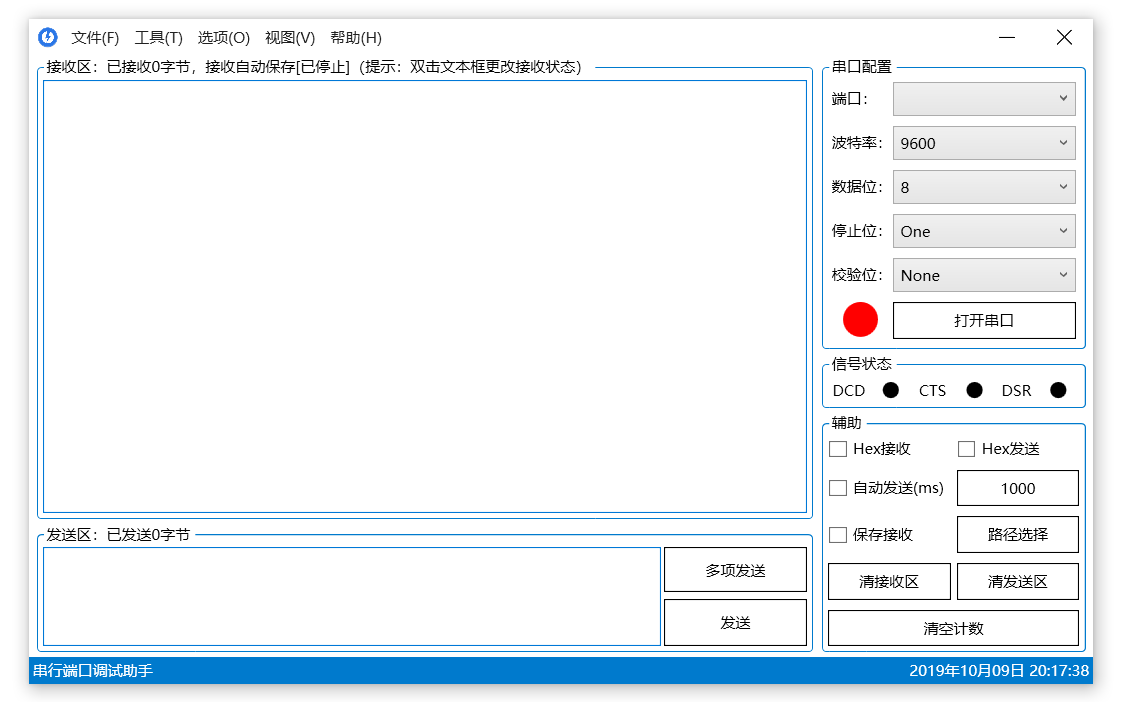
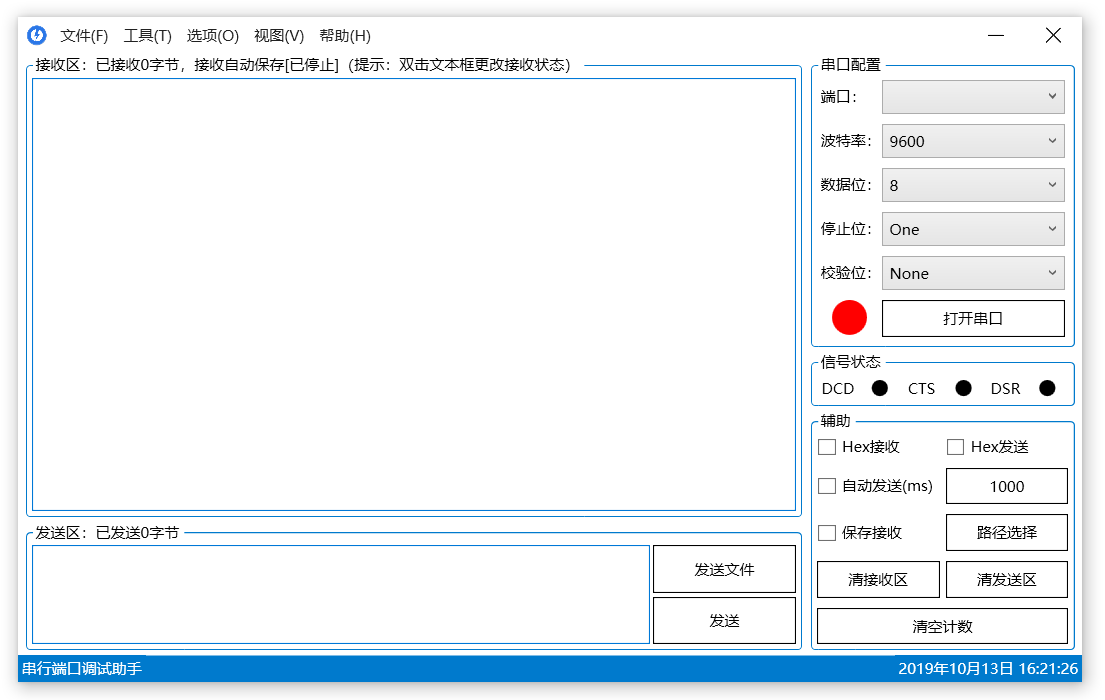
Updated OSDA to v3.4.0

Changed region(s): [[0.0, 0.03, 0.9846, 0.99]]

diff --git a/Properties/AssemblyInfo.cs b/Properties/AssemblyInfo.cs
@@ -45,6 +45,6 @@ using System.Windows;
 //  修订号
 // 可以指定所有值，也可以使用以下所示的 "*" 预置版本号和修订号方法是按如下所示使用“*”: :
 // [assembly: AssemblyVersion("1.0.*")]
-[assembly: AssemblyVersion("3.3.0.23")]
-[assembly: AssemblyFileVersion("3.3.0.23")]
+[assembly: AssemblyVersion("3.4.0.5")]
+[assembly: AssemblyFileVersion("3.4.0.5")]
 [assembly: NeutralResourcesLanguage("zh-Hans")]

diff --git a/Docs/source/conf.py b/Docs/source/conf.py
@@ -19,9 +19,9 @@ copyright = u'2019, OSDA Project members and individual contributors'
 author = u'The OSDA Project'
 
 # The short X.Y version
-version = '3.3.0'
+version = '3.4.0'
 # The full version, including alpha/beta/rc tags
-release = '3.3.0'
+release = '3.4.0'
 
 # -- General configuration ---------------------------------------------------
 

diff --git a/Models/HelpM.cs b/Models/HelpM.cs
@@ -158,7 +158,7 @@ namespace OSDA.Models
 
         public void HelpDataContext()
         {
-            VerInfoNumber = "3.3.0";
+            VerInfoNumber = "3.4.0";
             VerInfo = "OSDA v" + VerInfoNumber;
 
             UpdateInfo = string.Format(cultureInfo, "OSDA发现新版本le........");

diff --git a/README.md b/README.md
@@ -3,14 +3,14 @@
 <p align="left">
     <a href="#License" alt="License"><img src="https://img.shields.io/badge/License-MIT-green"/></a>
     <a href="#安装" alt="Platform"><img src="https://img.shields.io/badge/Platform-Windows-green"/></a>
-    <a alt="Version"><img src="https://img.shields.io/badge/Release-V3.3.0-green"/></a>
+    <a alt="Version"><img src="https://img.shields.io/badge/Release-V3.4.0-green"/></a>
 </p>
 
 ![OSDA](Docs/source/_images/osda.png)
 
 ## 架构
 
-软件采用 WPF [Microsoft .NET Framework 4.6.1](https://dotnet.microsoft.com/download/dotnet-framework/net461) 框架，MVVM 模型开发（代码逻辑与 `UI` 设计分离）。
+软件支持 WPF [Microsoft .NET Framework 4.6.1](https://dotnet.microsoft.com/download/dotnet-framework/net461) 和 WPF [Microsoft .NET Core 3.0.0]( https://dotnet.microsoft.com/download/dotnet-core/3.0 ) 两种框架，MVVM 模型开发（代码逻辑与 UI 设计分离）。
 
 ![Framework](Docs/source/_images/framework.png)
 
@@ -20,7 +20,7 @@
 - [x] 十六进制（HEX）接收，十六进制（HEX）发送
 - [x] 自动发送
 - [x] 保存接收和路径选择
-- [ ] 多项文件
+- [x] 多项文件
 - [x] 编码方式
 - [x] 流控制（握手协议、控制协议）
 - [x] 暂停接收
@@ -48,21 +48,23 @@
 
 #### For Windows
 
-下载最新的 [OSDA 安装程序](https://leven9.gitee.io/osdaweb/download.html)。根据计算机平台，从 `Gitee` 或 `Github` 下载点下载。
+下载最新的 [OSDA 安装程序](https://leven9.gitee.io/osdaweb/download.html)。可以选择从 `Gitee` 或 `Github` 下载点下载。
 
 ## 编译
 
 #### For Windows
 
 - [ ] VS2015
-- [x] VS2017
-- [x] VS2019
+- [x] VS2017（仅支持 .Framework 框架）
+- [x] VS2019（支持 .Framework 和 .Core 两种框架）
 
 ```bash
 $ git clone https://gitee.com/leven9/OSDA.git
 $ cd OSDA/msvc
 ```
-对于 `VS2017` 双击 `OSDA2017.Framework.sln`，对于 `VS2019` 双击 `OSDA2019.Framework.sln` 即可。
+* 对于 VS2017 ，双击 `OSDA2017.Framework.sln` 
+* 对于 VS2019 ` .Framework` 框架，双击 `OSDA2019.Framework.sln` 
+* 对于 VS2019 `.Core` 框架，双击 `OSDA2019.Core.sln`
 
 ## 贡献
 
